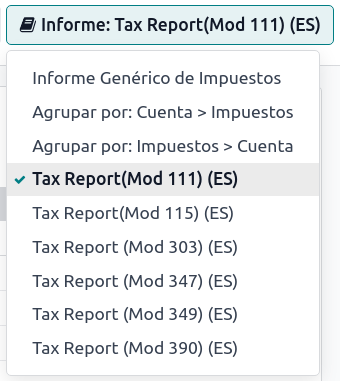
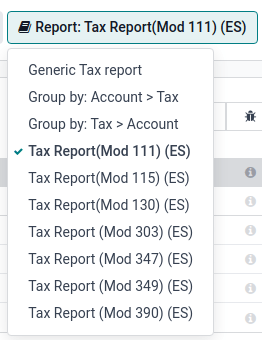
[IMP] l10n_es_modelo130, l10n_es_reports_modelo130: Tax report: Modelo 130
Add the modelo 130 report and the corresponding BOE files export for spain localization.

As it's a brand-new report, we had to add it in a dedicated module.

task-3866238

X-original-commit: c9c5af7045f2a7ce8f556e7786a5d683bbeef79b

Changed region(s): [[0.0, 0.0, 1.0, 1.0], [0.7939, 0.2059, 1.0, 1.0], [0.0, 0.1471, 0.0305, 0.4118]]

diff --git a/content/applications/finance/fiscal_localizations/spain.rst b/content/applications/finance/fiscal_localizations/spain.rst
@@ -48,6 +48,7 @@ Here is the list of Spanish-specific statement reports available:
 - EC Sales List;
 - Tax Report (Modelo 111);
 - Tax Report (Modelo 115);
+- Tax Report (Modelo 130);
 - Tax Report (Modelo 303);
 - Tax Report (Modelo 347);
 - Tax Report (Modelo 349);
@@ -58,6 +59,38 @@ selecting its Spain-specific version: :guilabel:`(ES)`.
 
 .. image:: spain/modelo-reports.png
    :alt: Spain-specific tax reports.
+
+Modelo 130
+----------
+
+Change the percentage
+~~~~~~~~~~~~~~~~~~~~~
+
+If you wish to change the percentage computation of the box :guilabel:`[04]` under the :guilabel:`I`
+section and/or of the box :guilabel:`[09]` under the :guilabel:`II` section:
+
+#. Activate the :ref:`developer mode <developer-mode>`, go to :menuselection:`Accounting -->
+   Reporting --> Tax Report`, and select the report :guilabel:`Tax report (Modelo 130)`.
+#. Click the :icon:`fa-cogs` (:guilabel:`cogs`) icon to the right of :guilabel:`Report: Tax Report
+   (Mod 130) (ES)`.
+#. Click the box you wish to change, and in the pop-up window, click on the :guilabel:`percentage`
+   line. In the new pop-up window, change the value in the :guilabel:`Formula` field to the
+   percentage you wish to apply.
+   Repeat this action if you wish to modify the other box as well.
+
+Report agriculture activity
+~~~~~~~~~~~~~~~~~~~~~~~~~~~
+
+If you wish to have any amount input in the :guilabel:`II` section (from boxes :guilabel:`[08]` to
+:guilabel:`[11]`), you must change the **industry** of the corresponding contact to
+:guilabel:`Agriculture`:
+
+#. Go to the contact form (:menuselection:`Accounting --> Customers --> Customers`
+   or :menuselection:`Accounting --> Vendors --> Vendors`, for example), and select a contact.
+#. In the :guilabel:`Sales & Purchase` tab, set the :guilabel:`Industry` field to
+   :guilabel:`Agriculture`.
+
+Repeat this operation for all contacts related to the **agriculture** industry.
 
 TicketBAI
 =========
